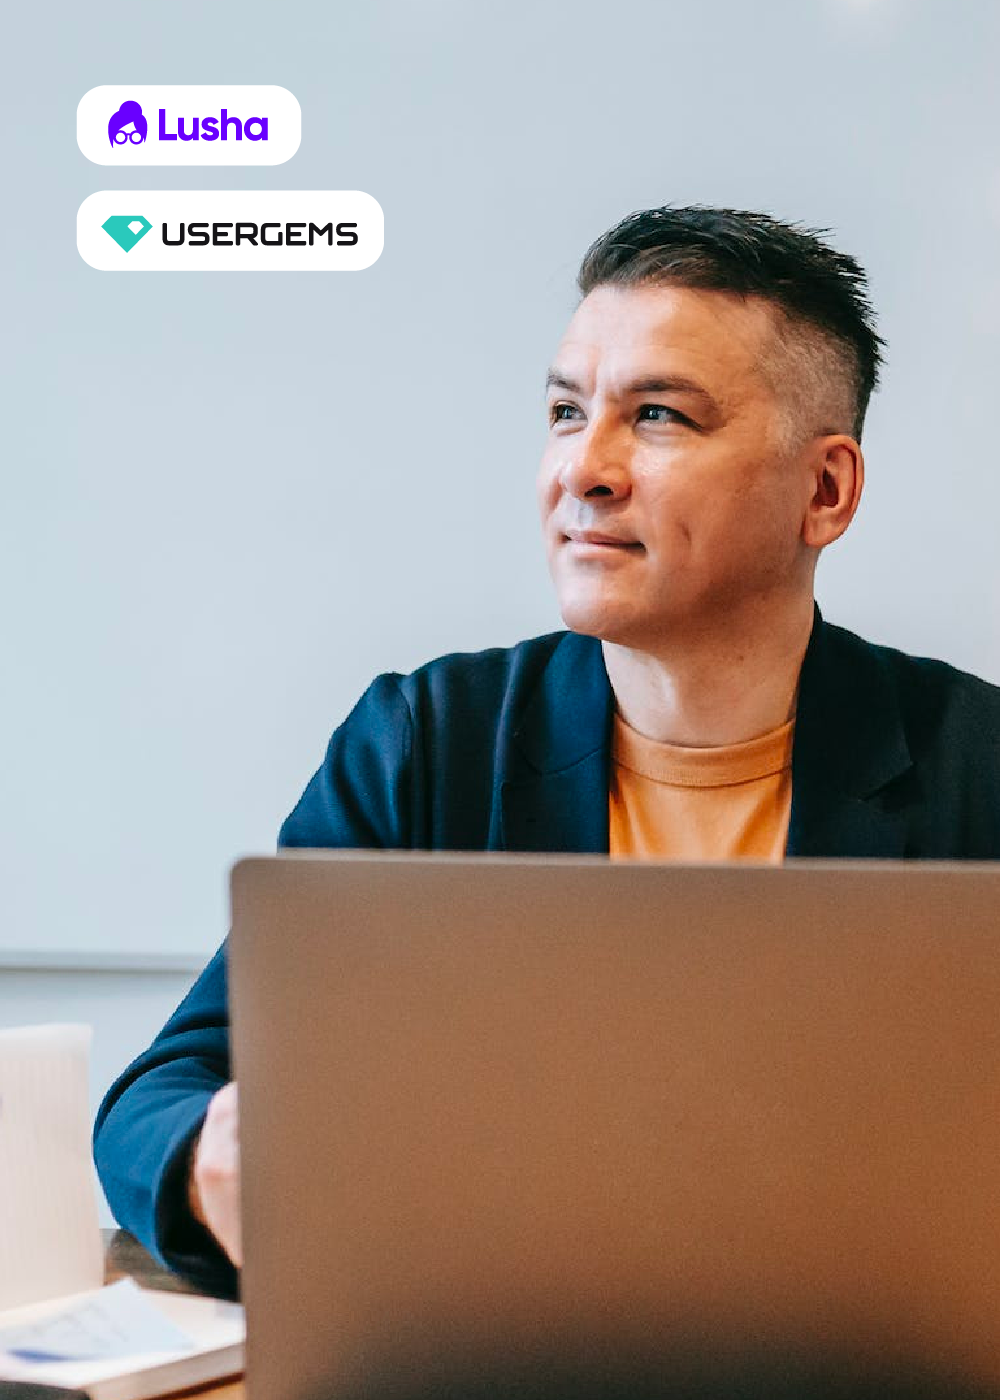
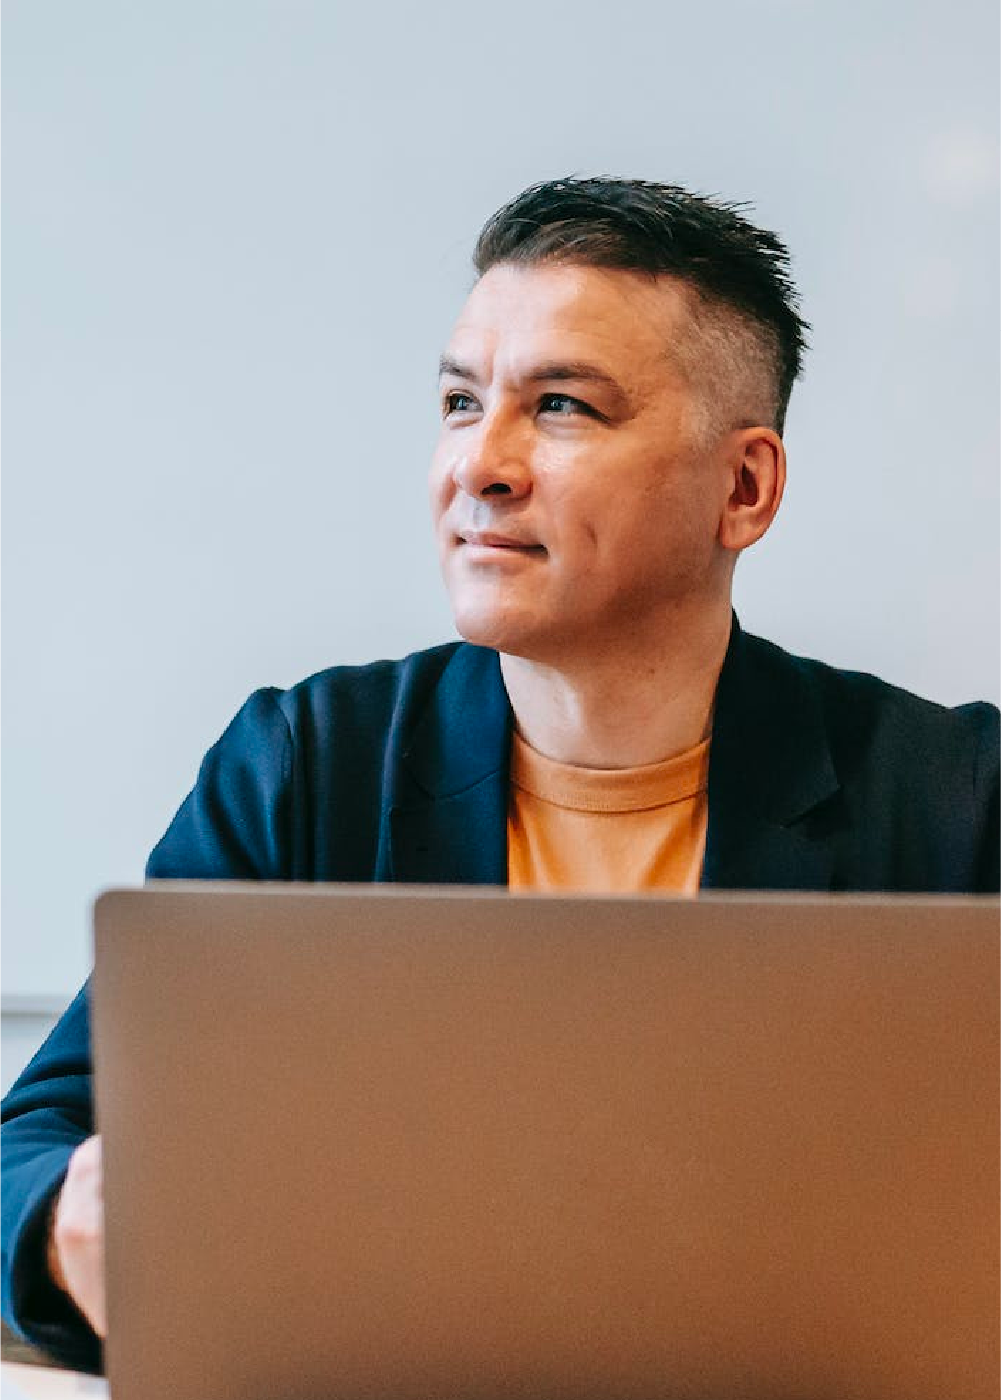
update

diff --git a/index-usecase.html b/index-usecase.html
@@ -1305,9 +1305,15 @@
 
         <div class="card mb-12" data-aos="fade-up">
           <div class="card-body border border-gray-700 shadow-light lift rounded">
+              
             <div class="row justify-content-between ">
 
             <div class="col-12 col-md-5 order-md-2 mb-9 mb-md-0">
+
+            <!-- Badge -->
+            <span class="badge badge-info rounded-pill badge-lg badge-float badge-float-outside text-uppercase text-white mt-n1 mr-3">
+              Proxycurl API / use-case Story
+            </span>
 
               <!-- Image -->
               <img class="img-fluid rounded mb-2" src="assets/img/photos/john.png">
@@ -1315,15 +1321,18 @@
 
             <div class="col-12 col-md-6 order-md-1">
 
-              <div class="badge badge-info-soft badge-pill badge-lg">CUSTOMER STORY </div>
+              <!-- Image -->
+              <img class="img-fluid rounded mr-4" style="height: 18px;" src="assets/img/Misc/lusha.svg">
+
+              <!-- Image -->
+              <img class="img-fluid w-35 rounded" style="height: 16px;" src="assets/img/Misc/usergems.svg">              
 
               <!-- Title 1-->
-              <p class="h2 font-weight-bold mb-4 mt-5">
+              <p class="h2 font-weight-bold mb-4 mt-6">
                 Scraping LinkedIn profiles to monitor for job changes
               </p>
 
               <!-- Desc-->
-
               <p class="lead text-muted mb-5"> 
                 The distinguishing feature of the <span class="font-weight-bold text-info">Buy Signals</span> from Lusha and UserGems is that they are triggered when a LinkedIn member changes jobs. Companies such as UserGem and Lusha keep track of job changes on LinkedIn profiles on a large scale. One of the mentioned companies utilizes the Proxycurl API to scrape newly updated LinkedIn profiles, thereby enhancing their Buy Signal product.
               </p>
@@ -1733,16 +1742,22 @@
 
             <div class="col-12 col-md-5 order-md-2 mb-9 mb-md-0">
 
+            <!-- Badge -->
+            <span class="badge badge-info rounded-pill badge-lg badge-float badge-float-outside text-uppercase text-white mt-n1 mr-3">
+              Search API / use-case Story
+            </span>              
+
               <!-- Image -->
               <img class="img-fluid rounded mb-2" src="assets/img/photos/debbie.jpg">
             </div>
 
             <div class="col-12 col-md-7 order-md-1 pr-8">
 
-              <div class="badge badge-info-soft badge-pill badge-lg font-weight-normal">CUSTOMER STORY </div>
+              <!-- Image -->
+              <img class="img-fluid rounded mr-4" style="height: 24px;" src="assets/img/Misc/Proxycurl-Logotype-Primary-No Nubela.svg">
 
               <!-- Title 1-->
-              <p class="h2 font-weight-bold mb-4 mt-4">
+              <p class="h2 font-weight-bold mb-4 mt-5">
                 Prospected 14,420 senior marketing candidates for executive hiring
               </p>
 
@@ -1814,13 +1829,19 @@
 
             <div class="col-12 col-md-5 order-md-2 mb-9 mb-md-0">
 
+            <!-- Badge -->
+            <span class="badge badge-info rounded-pill badge-lg badge-float badge-float-outside text-uppercase text-white mt-n1 mr-3">
+              LINKDB / use-case Story
+            </span>              
+
               <!-- Image -->
               <img class="img-fluid rounded mb-2" src="assets/img/photos/brody.png">
             </div>
 
             <div class="col-12 col-md-7 order-md-1 pr-9">
 
-              <div class="badge badge-info-soft badge-pill badge-lg font-weight-normal">CUSTOMER STORY </div>
+              <!-- Image -->
+              <img class="img-fluid rounded mr-4" style="height: 18px;" src="assets/img/Misc/replyio.svg"> 
 
               <!-- Title 1-->
               <p class="h2 font-weight-bold mb-4 mt-5">
